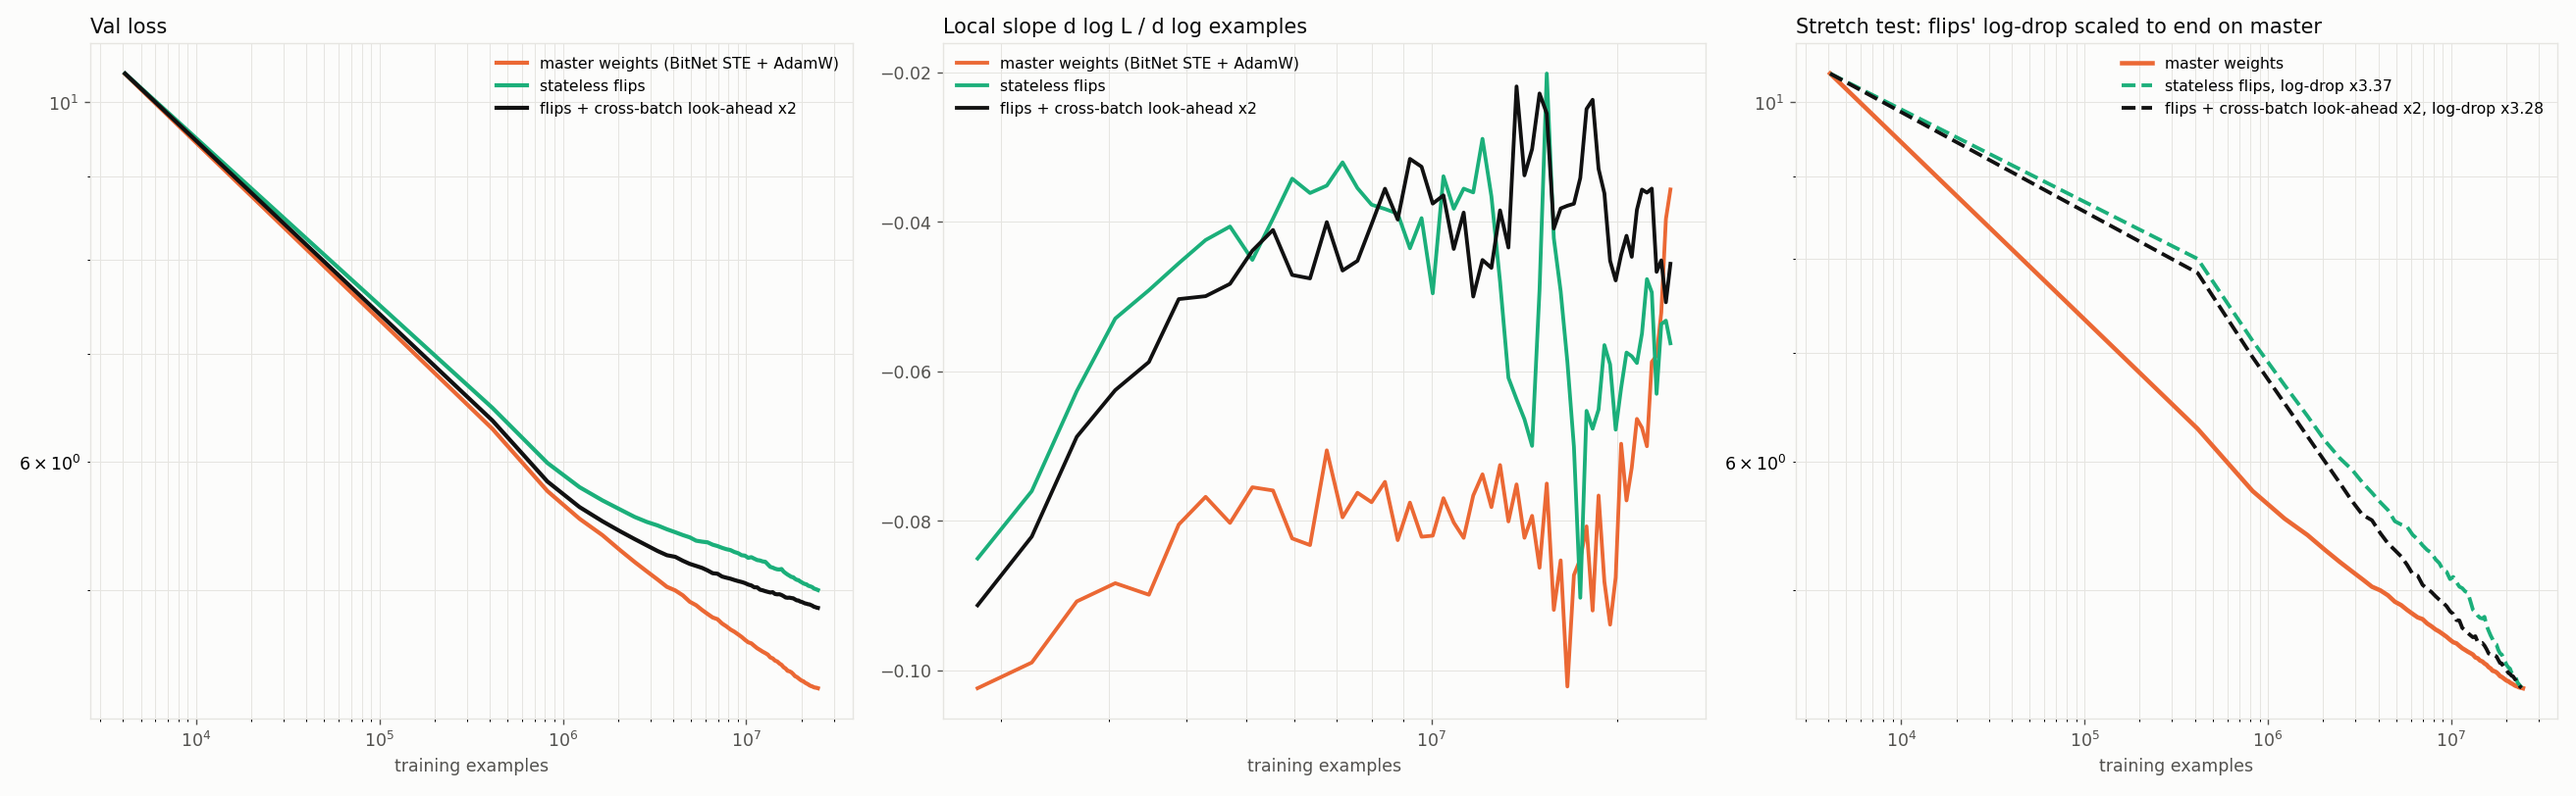
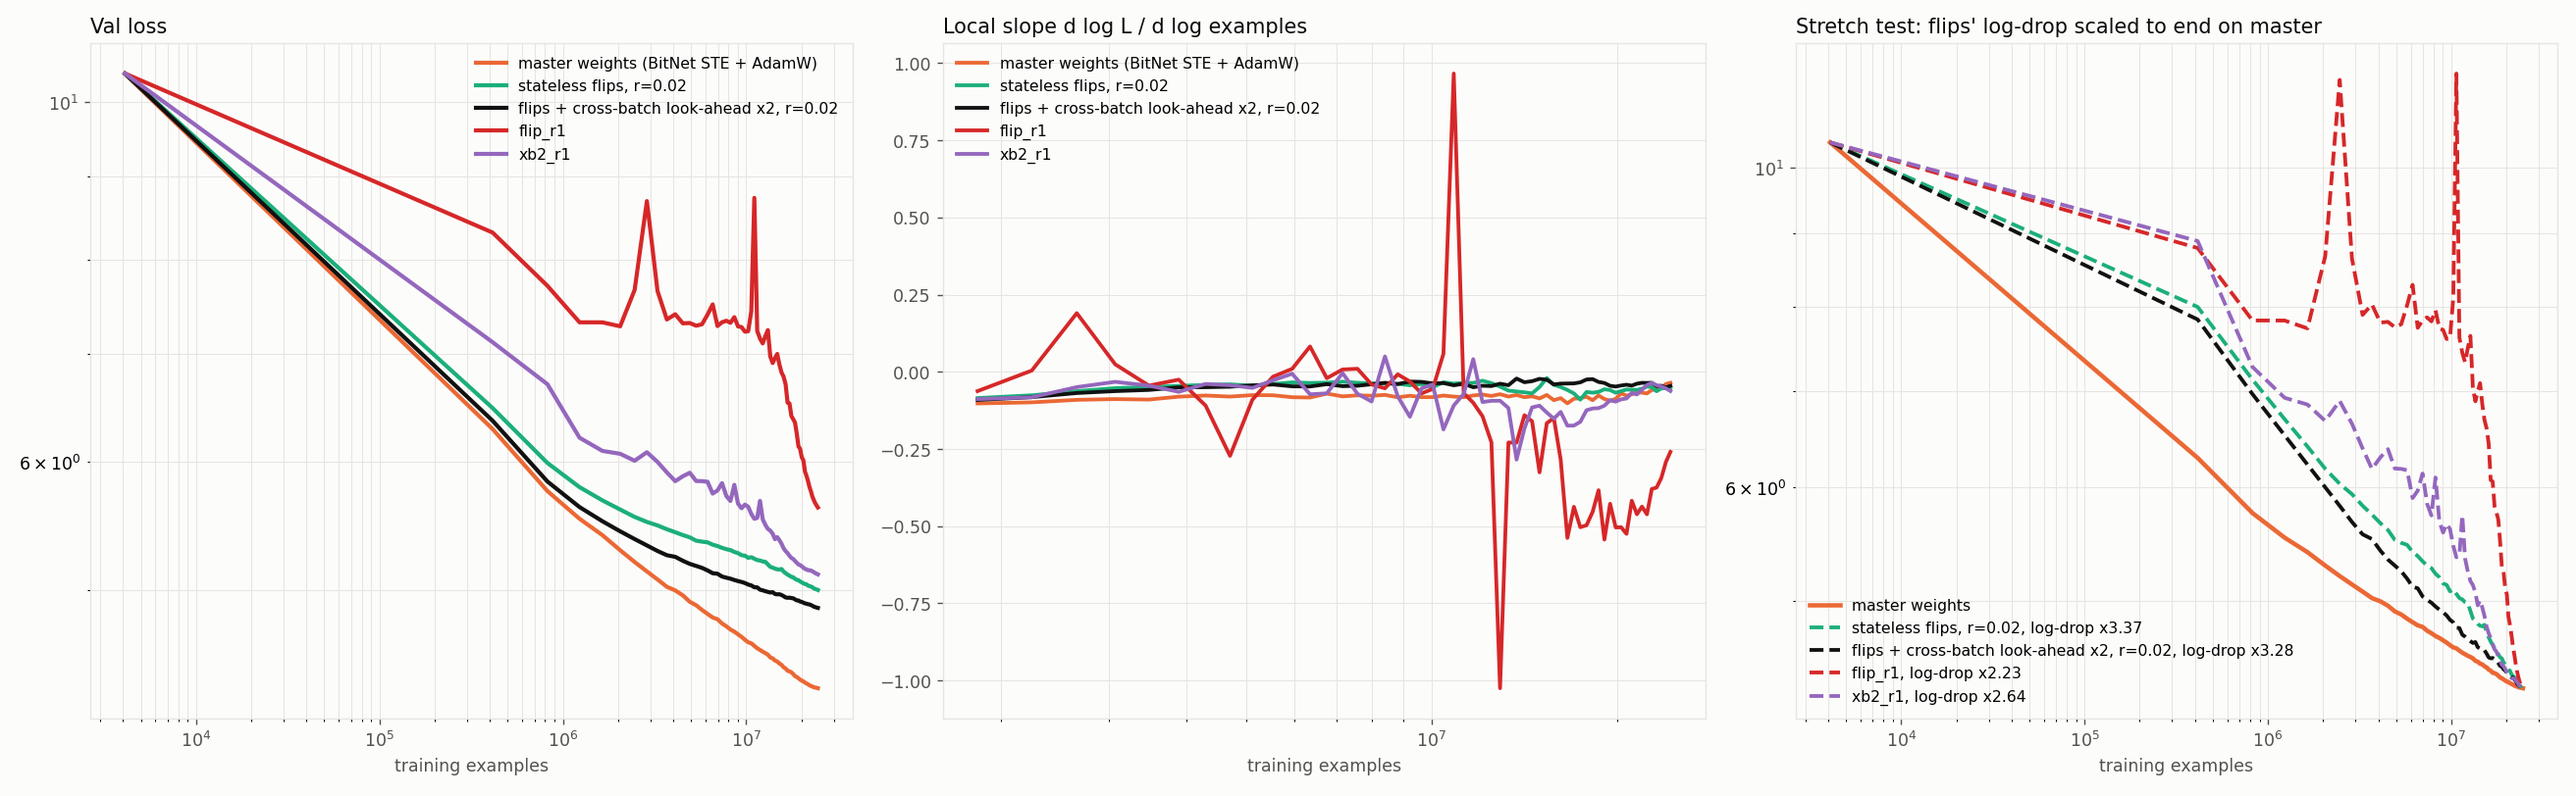
MLP at flip rate 1: survivable with cross-batch look-ahead (5.115) but worse than 0.02 (4.877)

diff --git a/scripts/plots/plot_mlp.py b/scripts/plots/plot_mlp.py
@@ -4,16 +4,22 @@ scaled onto master's).
 
   python -m scripts.plots.plot_mlp
 """
-import argparse, json, os
+import argparse, glob, json, os
 import numpy as np
 import matplotlib
 matplotlib.use("Agg")
 import matplotlib.pyplot as plt
 
 SURFACE, INK, INK2, GRID = "#fcfcfb", "#0b0b0b", "#52514e", "#e6e5e1"
-RUNS = [("mlp_master", "master weights (BitNet STE + AdamW)", "#eb6834"),
-        ("mlp_flip", "stateless flips", "#1baf7a"),
-        ("mlp_xb2", "flips + cross-batch look-ahead x2", "#111111")]
+FIXED = {"mlp_master": ("master weights (BitNet STE + AdamW)", "#eb6834"),
+         "mlp_flip": ("stateless flips, r=0.02", "#1baf7a"),
+         "mlp_xb2": ("flips + cross-batch look-ahead x2, r=0.02", "#111111")}
+# every run in checkpoints/mlp/ goes on the graph; known ones keep fixed labels/colors
+_names = sorted(os.path.basename(f)[:-6] for f in glob.glob("checkpoints/mlp/*.jsonl"))
+_names = [n for n in FIXED if n in _names] + [n for n in _names if n not in FIXED]
+_cmap = plt.get_cmap("tab10")
+RUNS = [(n, FIXED[n][0] if n in FIXED else n.replace("mlp_", ""),
+         FIXED[n][1] if n in FIXED else _cmap(i % 10)) for i, n in enumerate(_names)]
 
 
 def load(n):
@@ -46,8 +52,8 @@ M = D["mlp_master"]
 if M is not None:
     tm, Lm = M
     ax3.plot(tm, Lm, color="#eb6834", lw=2.6, label="master weights")
-    for n, lab, c in RUNS[1:]:
-        if D[n] is None: continue
+    for n, lab, c in RUNS:
+        if n == "mlp_master" or D[n] is None: continue
         t, L = D[n]
         cut = np.searchsorted(t, t[0] * 3)               # skip the first drop, as for the LM
         t, L = t[cut:], L[cut:]

diff --git a/scripts/mlp/mlp_lab.py b/scripts/mlp/mlp_lab.py
@@ -61,7 +61,7 @@ def main():
     ap = argparse.ArgumentParser()
     ap.add_argument("--mode", choices=["master", "flip"], required=True)
     ap.add_argument("--name", required=True)
-    ap.add_argument("--steps", type=int, default=3000)
+    ap.add_argument("--steps", type=int, default=6000)
     ap.add_argument("--batch", type=int, default=4096)
     ap.add_argument("--ctx", type=int, default=8)
     ap.add_argument("--emb", type=int, default=256)

diff --git a/docs/RUNS.md b/docs/RUNS.md
@@ -857,3 +857,8 @@ half master's slope (0.045/0.079 = 0.57, LM ~0.6). Look-ahead gives an offset (-
 a better slope, as on the LM. A single-factor stretch fits less cleanly than on the LM
 (14-16% deviation): the MLP's bend is sharper. Usable as a ~100x cheaper testbed for the
 flip rule and the filter.
+
+MLP at flip rate r = 1 (6000 steps, same schedule): plain flips 5.625 (stuck near 7.2 until
+the cosine pulls the rate down), cross-batch look-ahead x2 **5.115**, against 5.003 / 4.877 at
+r = 0.02 and master 4.351. The filter makes r = 1 survivable but not good: a low rate still
+wins by 0.24.
